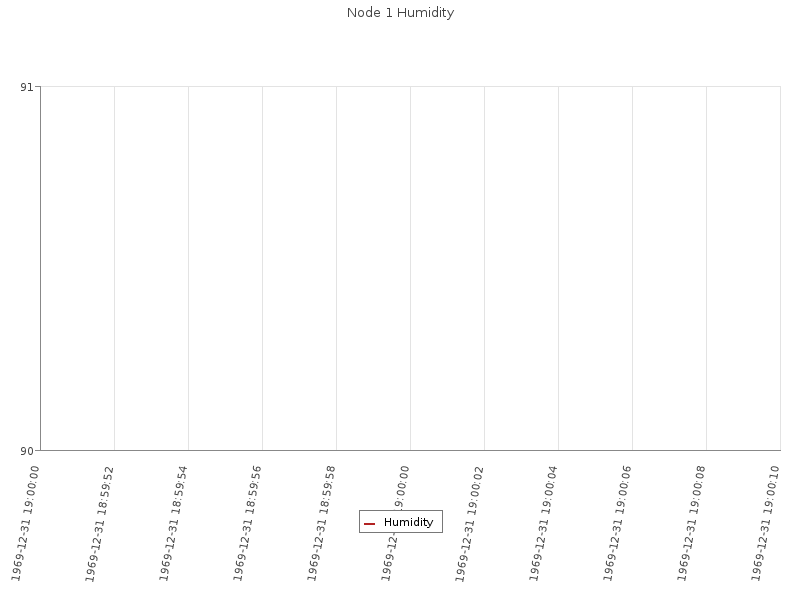
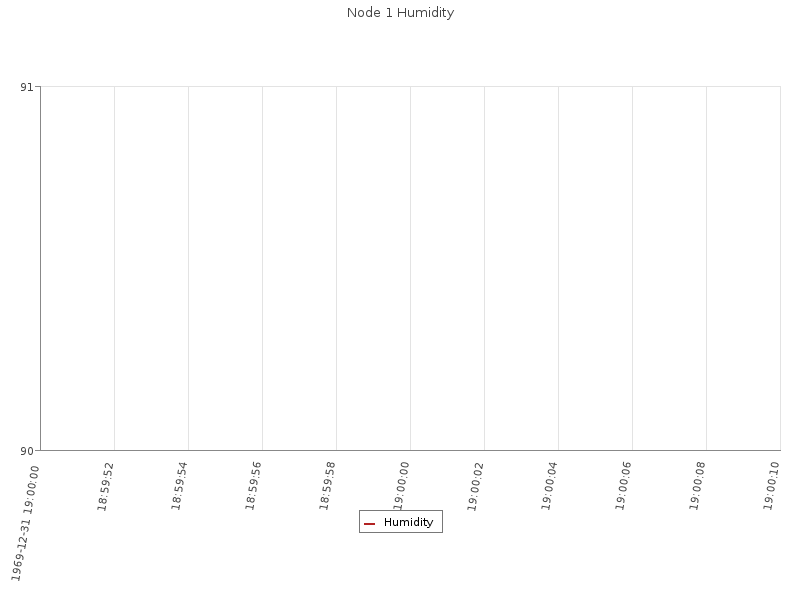
Added node triggering functionality

diff --git a/nodemap.php b/nodemap.php
@@ -4,13 +4,13 @@ include("db.php");
 $_SESSION['page'] = "nodemap";
 $db = new DBManager();
 $result = $db->get_node_locs();
-
 function make_row($row) {
 	$script = "map.panTo(new L.LatLng($row[latitude], $row[longitude]));";
 	$output = "<tr>\n";
-	$output .= sprintf("<td style='cursor: pointer' onclick='$script'>%s (click to view on map)</td>", $row["node_id"]);
+	$output .= sprintf("<td style='cursor: pointer' onclick='$script'>%s &nbsp;&nbsp;&nbsp;&nbsp;(click to view on map)</td>", $row["node_id"]);
 	$output .= sprintf("<td>%s</td>", $row["latitude"]);
 	$output .= sprintf("<td>%s</td>", $row["longitude"]);
+	$output .= sprintf("<td><button type='submit' onclick='return confirm(\"Trigger node %s?\")' name=submit value=%s class='btn btn-default btn-xs'>Trigger</button></td>", $row["node_id"], $row["node_id"]);
 	$output .= "</tr>\n";
 	return $output;
 }
@@ -42,18 +42,32 @@ function add_markers($lats, $longs) {
 		<title>CDC SensorView</title>
 	</head>
 	<body>
-	<?php include("nav.php"); ?>
+	<?php include("nav.php"); 
+	if (isset($_POST["submit"])) {
+		$triggered = $db->trigger_node($_POST["submit"]);
+		$node = (int) $_POST["submit"];
+		echo '<script language="javascript">';
+		if ($triggered) {
+			echo "alert('Node $node successfully triggered.')";
+		} else {
+			echo "alert('Node $node could not be triggered!')";
+		}
+		echo '</script>';
+	}
+	?>
 	
 	<div class="container">
 		<div class="panel panel-default">
 			<div class="panel-heading"><h2>Node Map</h2></div>
 			<div class="panel-body">
+				<form action="nodemap.php" method="post">
 				<table class="table table-striped">
 				<thead>
 					<tr>
 						<th>Node ID</th>
 						<th>Latitude</th>
 						<th>Longitude</th>
+						<th>Trigger Node?</th>
 					</tr>
 				</thead>
 				<tbody>
@@ -70,7 +84,8 @@ function add_markers($lats, $longs) {
 					} 
 					?>
 				</tbody>
-				</table>			
+				</table>
+				</form>				
 				<div id="map" style="height: 400px;">
 				<script type="text/javascript">
 				var map = L.map('map',{

diff --git a/graph.php b/graph.php
@@ -17,15 +17,6 @@ if ($_SERVER['REQUEST_METHOD'] == 'POST') {
 	$result = $db->execute($sp);
 }
 
-/* Time intervals used for graphing 
- with a sampling rate of 12 seconds */
-$sec_interval = 5; // 5 samples in 1 minute
-$min_interval = 300; // 300 samples in 1 hour
-$hour_interval = 7200; // 7200 samples in 1 day
-$day_interval = 50400; // 50400 samples in 1 week
-$week_interval = 201600; // 201600 samples in 28 days
-$month_interval = 2419200; // 2419200 samples in 12*28 days
-
 function make_base_graph($title, $time) {
 	$graph = new Graph(800,600);
 	$graph->SetScale("datint");
@@ -42,26 +33,6 @@ function make_base_graph($title, $time) {
 	$graph->xaxis->SetLabelAngle(80);
 	$graph->xgrid->SetColor('#E3E3E3');
 	
-	$samples = count($time);
-	if ($samples <= $sec_interval) {
-		$graph ->xaxis->scale->SetDateFormat('i:s');
-		//$graph->xaxis->SetTextLabelInterval(2);
-	} elseif ($samples <= $min_interval) {
-		$graph ->xaxis->scale->SetDateFormat('H:i');
-		//$graph->xaxis->SetTextLabelInterval(2);
-	} elseif ($samples <= $hour_interval) {
-		$graph ->xaxis->scale->SetDateFormat('d H:i');
-		//$graph->xaxis->SetTextLabelInterval(2);
-	} elseif ($samples <= $day_interval) {
-		$graph ->xaxis->scale->SetDateFormat('d H:i');
-		//$graph->xaxis->SetTextLabelInterval(2);
-	} elseif ($samples <= $week_interval) {
-		$graph ->xaxis->scale->SetDateFormat('m-d H:i:s');
-		//$graph->xaxis->SetTextLabelInterval(2);
-	} else {
-		$graph ->xaxis->scale->SetDateFormat('Y-m-d H:i:s');
-		//$graph->xaxis->SetTextLabelInterval(2);
-	}
 	$graph->xaxis->SetTickLabels($time);
 	return $graph;
 }

diff --git a/db.php b/db.php
@@ -116,6 +116,18 @@ class DBManager {
 		return $result;
 		
 	}
+	
+	function trigger_node($node_id) {
+		$node_id = (int) $node_id;
+		$query = $this->con->prepare("INSERT INTO sensors.monitor VALUES (0, 0.0, 0.0, '1980-11-21 17:45:00', NOW(), ?, NULL, 0)");
+		$query->bind_param("i", $node_id);
+		$query->execute();
+		if ($query->errno == 0) {
+			return true;
+		} else {
+			return false;
+		}
+	}
 
 }
 
